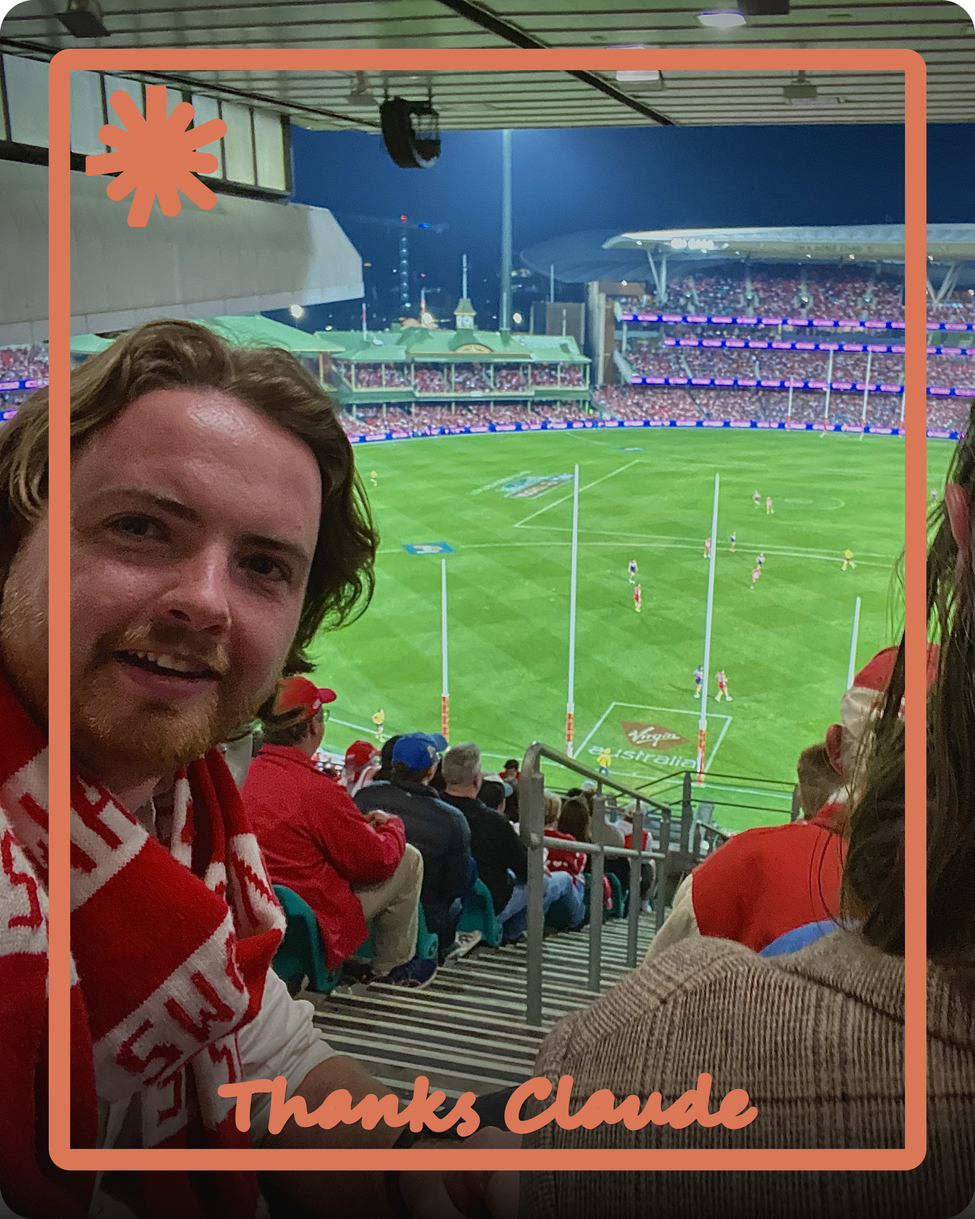
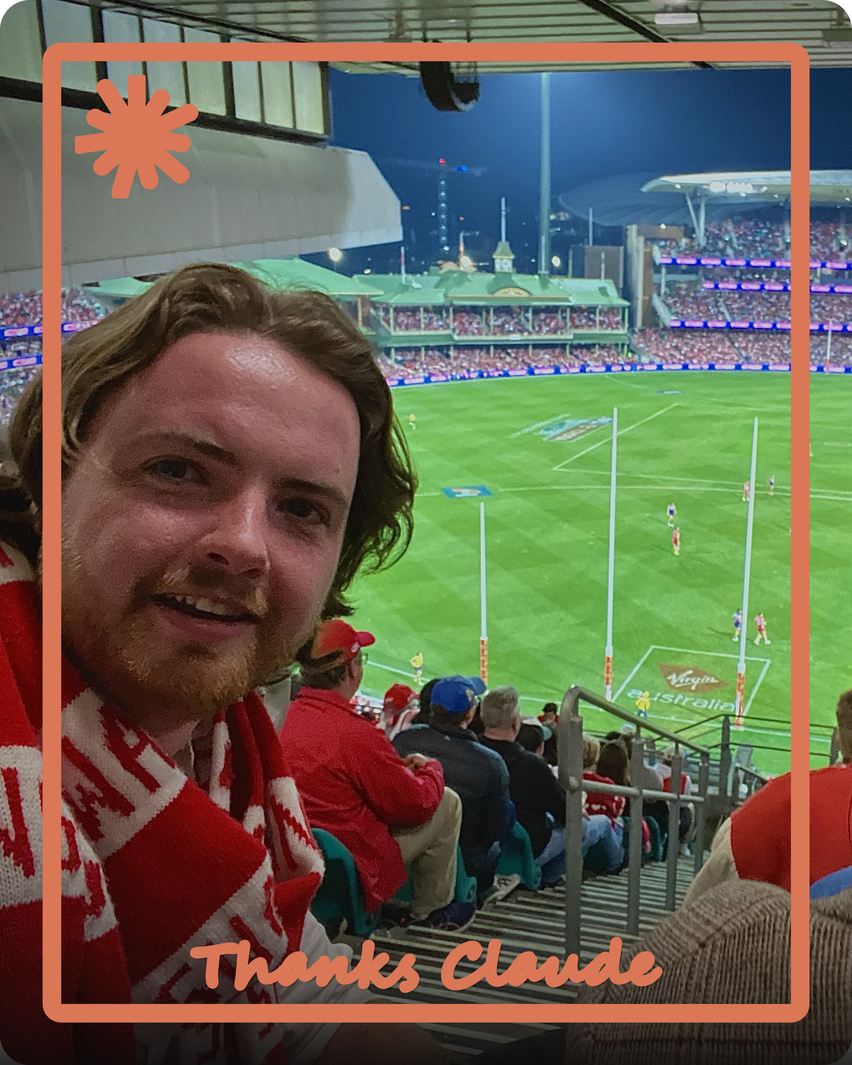
Fix the duplicated runner table, tighter crop on the SCG photo
The runner table was pasted twice by an earlier edit, and the second copy
had lost its header row, so it rendered as a stray line of pipes. One table
now, keeping the extension link from the second copy and the sentence about
the content script.

The photo is recropped from the raw: less roof, less stairwell, and the
subject and the ground both larger. Same 4:5 frame, 1800x2250.

diff --git a/README.md b/README.md
@@ -41,7 +41,7 @@ The site also adds two more ways to run the same watch, for people without a ter
 | Runner | Where it runs | Watches Ticketmaster |
 |---|---|---|
 | **This repo** | Your terminal, driving a real Chromium | Yes, with the fullest seat detail |
-| Chrome extension | Inside a Ticketmaster tab you already have open | Yes, no terminal needed |
+| [Chrome extension](https://github.com/C-H-U-Y/seatwatch/tree/main/extension) | Inside a Ticketmaster tab you already have open | Yes, no terminal needed |
 | Browser tab | A Web Worker in the site itself | **No.** See below |
 
 That last row is the constraint this repo exists because of. A web page cannot read
@@ -49,20 +49,7 @@ Ticketmaster: it sends no `Access-Control-Allow-Origin` header, so the browser r
 hand the response body to any page that is not Ticketmaster's own, whatever address the
 request came from. A server cannot either, because datacenter addresses get `403`. The
 read only works from inside a real `ticketmaster.com.au` page, which is exactly what
-Playwright buys you here.
-
----|---|---|
-| This repo | A terminal, driving a real Chromium | Yes, with the fullest seat detail |
-| [Chrome extension](https://github.com/C-H-U-Y/seatwatch/tree/main/extension) | Inside a Ticketmaster tab you already have open | Yes, no terminal needed |
-| Browser tab | A Web Worker in the dashboard itself | **No.** See below |
-
-That last row is the interesting constraint, and it is why this repo exists at all: a web
-page cannot read Ticketmaster. Ticketmaster sends no `Access-Control-Allow-Origin` header,
-so the browser refuses to hand the response body to any page that is not Ticketmaster's
-own, whatever address the request came from. A server cannot do it either, because
-datacenter addresses get `403`. The only place the read works is inside a real
-`ticketmaster.com.au` page, which is what Playwright buys you here and what the
-extension's content script buys you there.
+Playwright buys you here and what the extension's content script buys you there.
 
 ---
 
